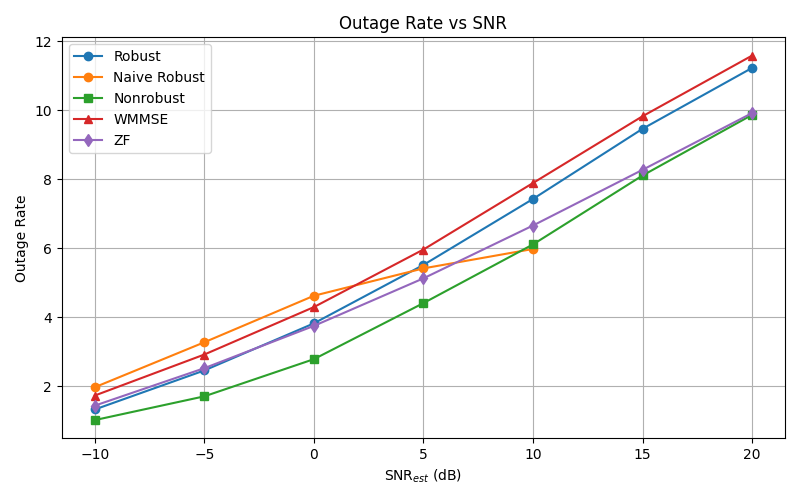
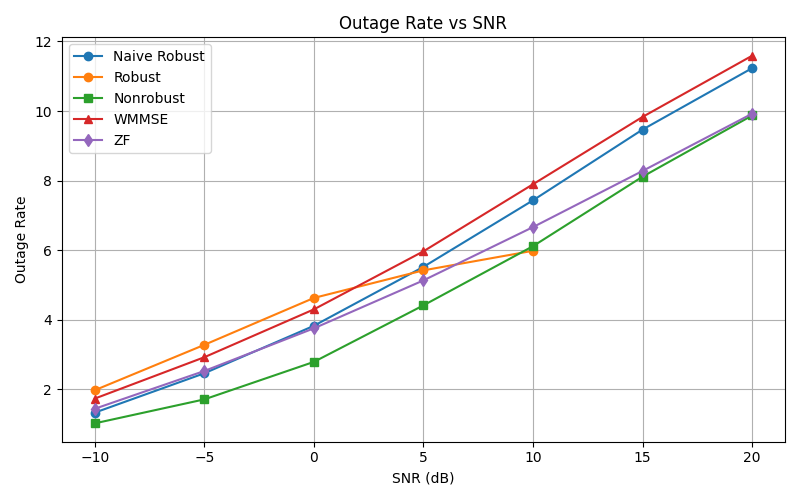
09082025_handover

diff --git a/learnable/plot.py b/learnable/plot.py
@@ -40,12 +40,12 @@ w_o = avg_over_users(data['w_o'])      # wmmse outage rate
 z_o = avg_over_users(data['z_o'])      # zf outage rate
 
 plt.figure(figsize=(8,5))
-plt.plot(snr_db_range, r_m, 'o-', label='Robust')
-plt.plot(snr_db_range[:5], r_m_o, 'o-', label='Naive Robust')
+plt.plot(snr_db_range, r_m, 'o-', label='Naive Robust')
+plt.plot(snr_db_range[:5], r_m_o, 'o-', label='Robust')
 plt.plot(snr_db_range, n_m, 's-', label='Nonrobust')
-# plt.plot(snr_db_range, w_m, '^-', label='WMMSE')
+plt.plot(snr_db_range, w_m, '^-', label='WMMSE')
 plt.plot(snr_db_range, z_m, 'd-', label='ZF')
-plt.xlabel('SNR$}$ (dB)')
+plt.xlabel('SNR (dB)')
 plt.ylabel('Average Rate (bps/Hz)')
 plt.title('Mean Rate vs SNR')
 plt.grid(True)
@@ -67,12 +67,12 @@ plt.savefig('mean_rate_vs_snr.png')
 # plt.savefig('rate_variance_vs_snr.png')
 
 plt.figure(figsize=(8,5))
-plt.plot(snr_db_range, r_o, 'o-', label='Robust')
-plt.plot(snr_db_range[:5], r_o_o, 'o-', label='Naive Robust')
+plt.plot(snr_db_range, r_o, 'o-', label='Naive Robust')
+plt.plot(snr_db_range[:5], r_o_o, 'o-', label='Robust')
 plt.plot(snr_db_range, n_o, 's-', label='Nonrobust')
 plt.plot(snr_db_range, w_o, '^-', label='WMMSE')
 plt.plot(snr_db_range, z_o, 'd-', label='ZF')
-plt.xlabel('SNR$$ (dB)')
+plt.xlabel('SNR (dB)')
 plt.ylabel('Outage Rate')
 plt.title('Outage Rate vs SNR')
 plt.grid(True)

diff --git a/learnable/plot_snrest.py b/learnable/plot_snrest.py
@@ -40,10 +40,10 @@ w_o = avg_over_users(data['w_o'])      # wmmse outage rate
 z_o = avg_over_users(data['z_o'])      # zf outage rate
 
 plt.figure(figsize=(8,5))
-plt.plot(snr_db_range, r_m, 'o-', label='Robust')
-plt.plot(snr_db_range[4:], r_m_o, 'o-', label='Naive Robust')
+plt.plot(snr_db_range, r_m, 'o-', label='Naive Robust')
+plt.plot(snr_db_range[4:], r_m_o, 'o-', label='Robust')
 plt.plot(snr_db_range, n_m, 's-', label='Nonrobust')
-# plt.plot(snr_db_range, w_m, '^-', label='WMMSE')
+plt.plot(snr_db_range, w_m, '^-', label='WMMSE')
 plt.plot(snr_db_range, z_m, 'd-', label='ZF')
 plt.xlabel('SNR$_{est}$ (dB)')
 plt.ylabel('Average Rate (bps/Hz)')
@@ -67,8 +67,8 @@ plt.savefig('mean_rate_vs_snrest.png')
 # plt.savefig('rate_variance_vs_snr.png')
 
 plt.figure(figsize=(8,5))
-plt.plot(snr_db_range, r_o, 'o-', label='Robust')
-plt.plot(snr_db_range[4:], r_o_o, 'o-', label='Naive Robust')
+plt.plot(snr_db_range, r_o, 'o-', label='Naive Robust')
+plt.plot(snr_db_range[4:], r_o_o, 'o-', label='Robust')
 plt.plot(snr_db_range, n_o, 's-', label='Nonrobust')
 plt.plot(snr_db_range, w_o, '^-', label='WMMSE')
 plt.plot(snr_db_range, z_o, 'd-', label='ZF')
